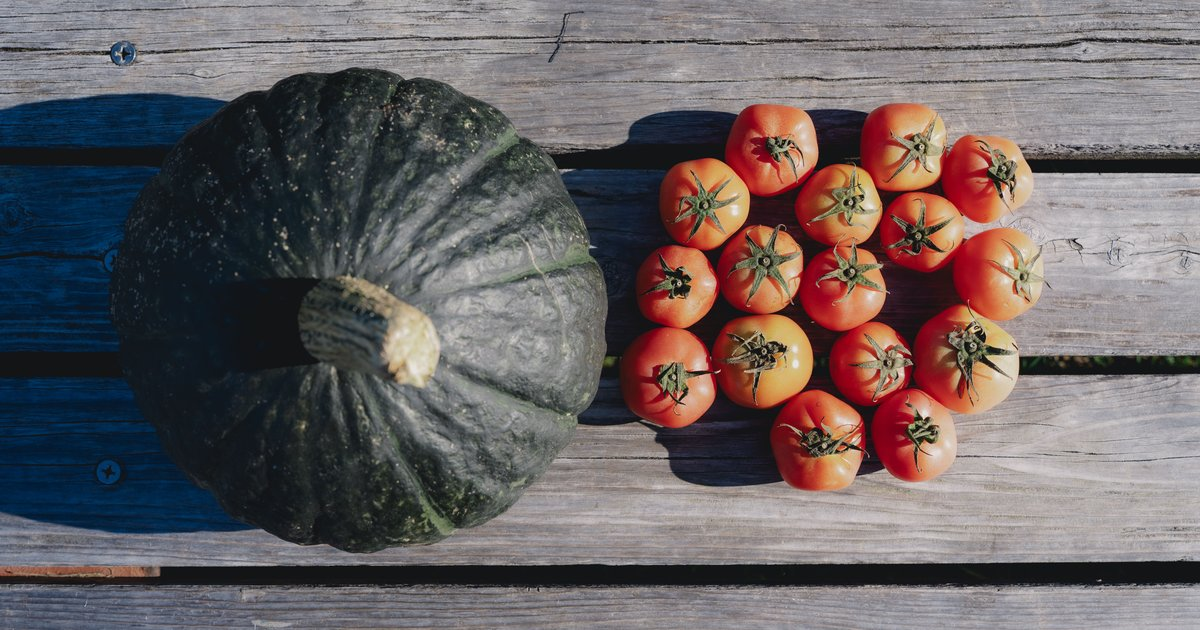
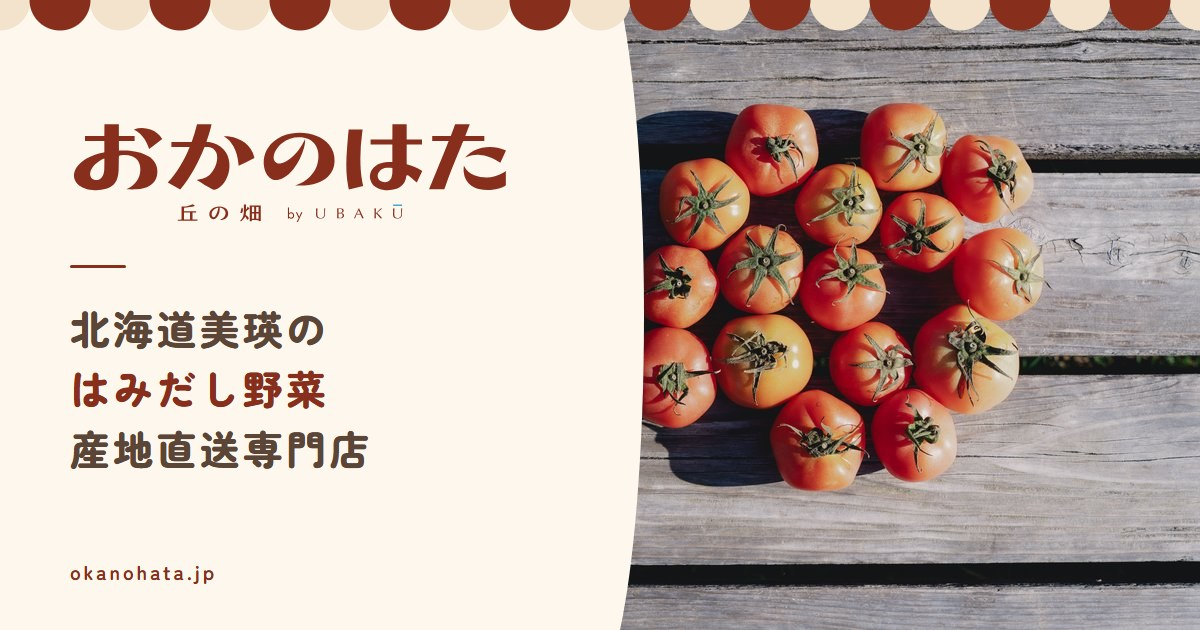
シェア用の画像（OGP）をロゴと「北海道美瑛のはみだし野菜 産地直送専門店」入りに

diff --git a/law/index.html b/law/index.html
@@ -18,7 +18,7 @@
 <meta property="og:image" content="https://okanohata.jp/ogp.jpg">
 <meta property="og:image:width" content="1200">
 <meta property="og:image:height" content="630">
-<meta property="og:image:alt" content="木のテーブルにのせた美瑛のトマトとかぼちゃ">
+<meta property="og:image:alt" content="おかのはた 丘の畑 by UBAKU。北海道美瑛のはみだし野菜 産地直送専門店">
 <meta property="og:locale" content="ja_JP">
 <meta name="twitter:card" content="summary_large_image">
 <!-- アイコン：仮に案2（「お」・赤土の地） -->

diff --git a/privacy/index.html b/privacy/index.html
@@ -18,7 +18,7 @@
 <meta property="og:image" content="https://okanohata.jp/ogp.jpg">
 <meta property="og:image:width" content="1200">
 <meta property="og:image:height" content="630">
-<meta property="og:image:alt" content="木のテーブルにのせた美瑛のトマトとかぼちゃ">
+<meta property="og:image:alt" content="おかのはた 丘の畑 by UBAKU。北海道美瑛のはみだし野菜 産地直送専門店">
 <meta property="og:locale" content="ja_JP">
 <meta name="twitter:card" content="summary_large_image">
 <!-- アイコン：仮に案2（「お」・赤土の地） -->

diff --git a/index.html b/index.html
@@ -26,7 +26,7 @@
 <meta property="og:image" content="https://okanohata.jp/ogp.jpg">
 <meta property="og:image:width" content="1200">
 <meta property="og:image:height" content="630">
-<meta property="og:image:alt" content="木のテーブルにのせた美瑛のトマトとかぼちゃ">
+<meta property="og:image:alt" content="おかのはた 丘の畑 by UBAKU。北海道美瑛のはみだし野菜 産地直送専門店">
 <meta property="og:locale" content="ja_JP">
 <meta name="twitter:card" content="summary_large_image">
 <script type="application/ld+json">
